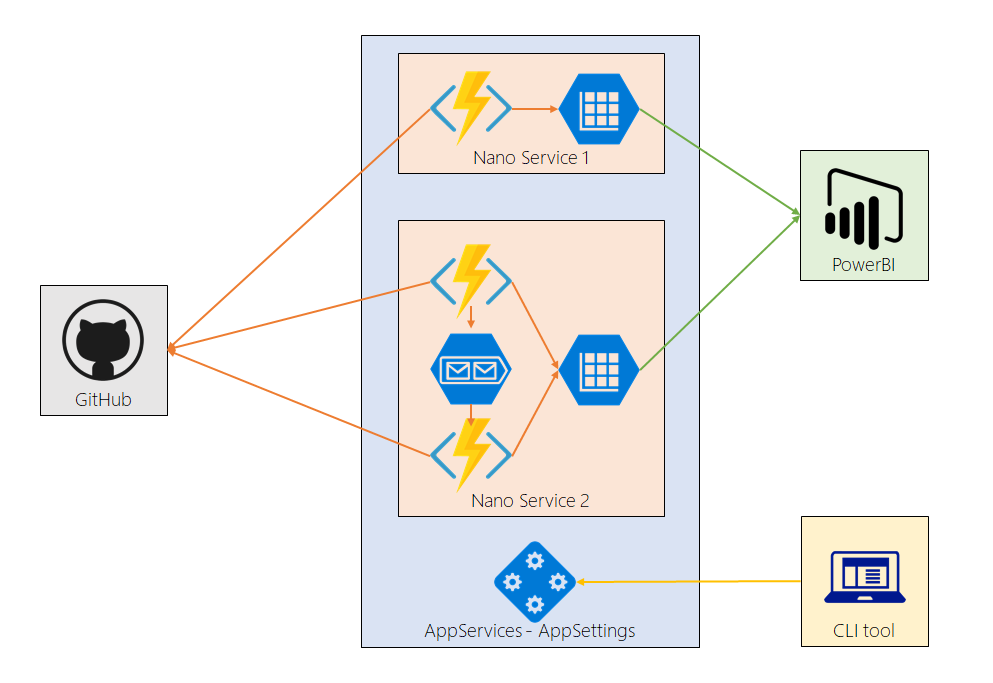
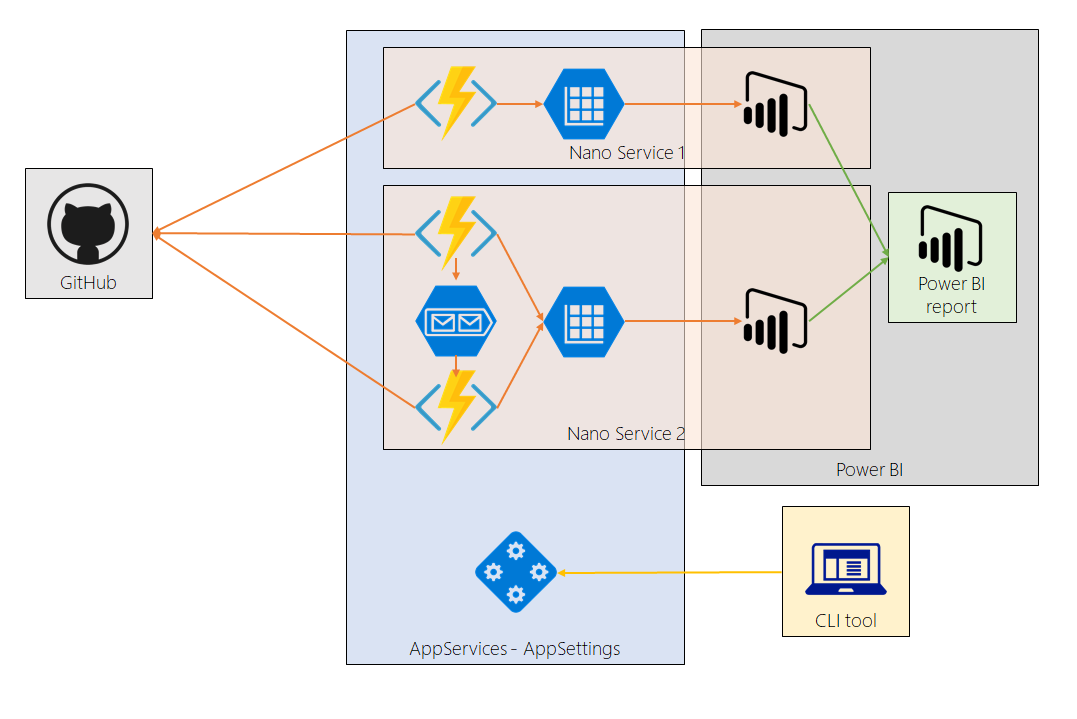
updated README with architecture and design principles

diff --git a/README.md b/README.md
@@ -1,10 +1,20 @@
 [![To Do](https://badge.waffle.io/cloudbeatsch/project-lenis.svg?label=to%20do&title=to%20do)](http://waffle.io/cloudbeatsch/project-lenis) 
 [![In Progress](https://badge.waffle.io/cloudbeatsch/project-lenis.svg?label=in%20progress&title=in%20progress)](http://waffle.io/cloudbeatsch/project-lenis)
 
-# project-lenis
+# Abouot project-lenis
 Provide insight into GitHub users, organizations and repositories using the GitHub 
 GraphQL API v4 and PowerBI.
 
 `project-lenis` wants to provide deep insight into the many different OSS projects within and across GitHub organizations by implementing the ability to visualize and analyze key metrics across users, repositories and organizations.
 
+# Architecture
+![Architecture overview](https://raw.githubusercontent.com/cloudbeatsch/project-lenis/master/diagrams/architecture.png)
 
+* Each capability (e.g. the creation of a collaboration graph) is implemented as an independent `nano service`. The output of each `nano service` is written into Azure tables. Each service implements its own [Power BI template](https://powerbi.microsoft.com/en-us/blog/deep-dive-into-query-parameters-and-power-bi-templates/) to visualize its data.
+* The final Power BI report includes the Power BI templates provided by the different `nano services`.
+* If a `nano service` requires sequential processing (e.g. extract the key contributors for each repository), the task should be split into multiple functions which are triggered by a queue message.
+* AppSettings (e.g. which repositories should be processed/excluded) are set through the `CLI tool`.
+
+# Development tools
+* [Power BI Desktop](https://go.microsoft.com/fwlink/?LinkId=521662&clcid=0x409)
+* [Node.js](https://nodejs.org/en/)
